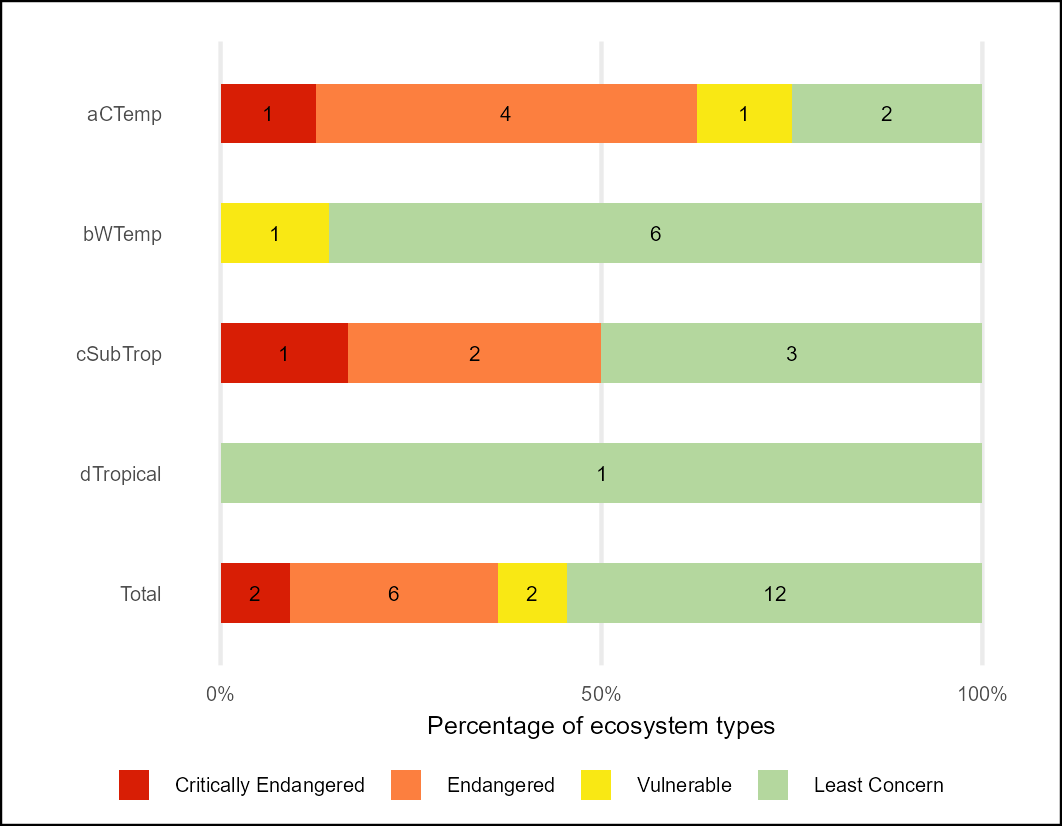
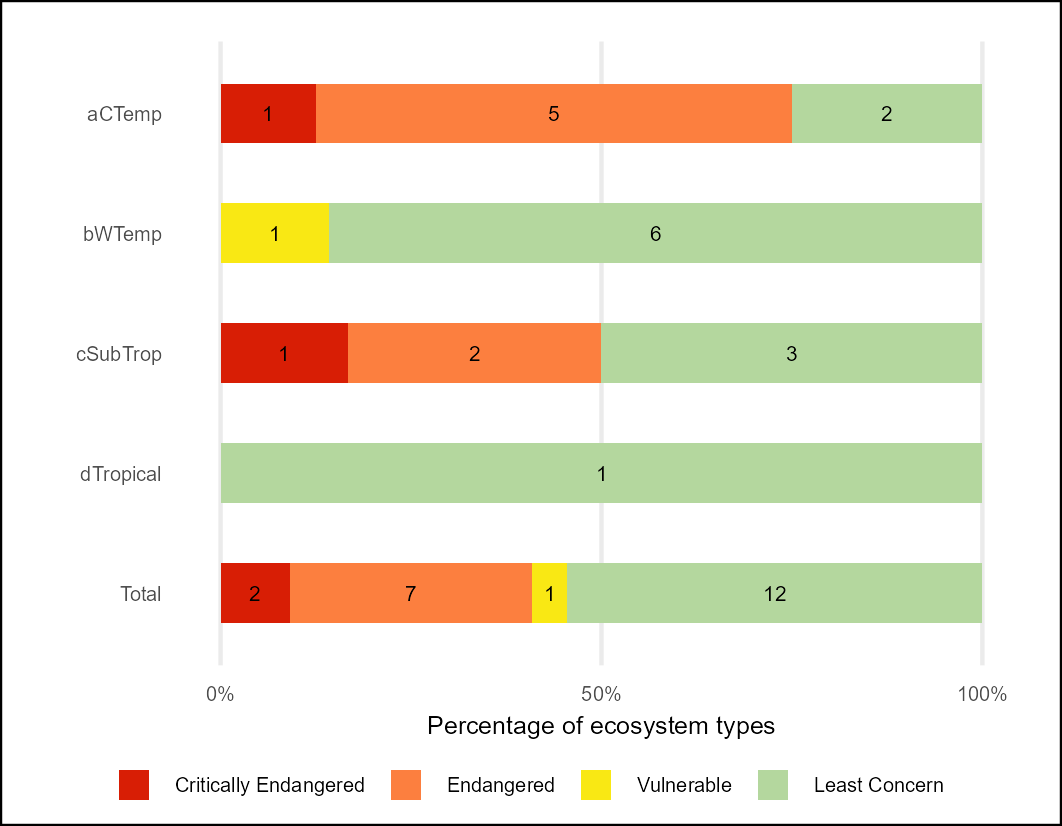
rle assessment

Changed region(s): [[0.6525, 0.0908, 0.7458, 0.1816], [0.4661, 0.6659, 0.5282, 0.7567]]

diff --git a/README.md b/README.md
@@ -10,17 +10,17 @@ July 2025
 
 This repository contains a workflow that results in the NBA 2025 Red List of Ecosystems indicator for Estuarine Ecosystems of South Africa.
 
-The Quarto document [RLE_estuaries.qmd](RLE_estuaries.qmd) describes the import of the South African estuary spatial data and Estuarine Health assessment tables (van Niekerk et al., 20240. The data were analysed using the sf package in R and summarised using the tidyverse.
+The Quarto document [RLE_estuaries.qmd](RLE_estuaries.qmd) describes the import of the South African estuary spatial data and Estuarine Health assessment tables (van Niekerk et al., 2024). The data were analysed using the sf package in R and summarised using the tidyverse.
 
-Estuarine Health Scores are assigned to PES categories A-F and Condition Classes (Natural - Severely modified) according to the table below.
+Estuarine Condition (Health) scores (0-100) are assigned to PES categories (A-F) and NBA Modification categories (Natural - Severely modified) according to the table below.
 
-| Estuarine Health SCORE | Ecological State CLASS | Condition CATEGORY           |
-|------------------------|-------------------|------------------------------|
-| \>= 90                 | A                      | Natural                      |
-| \>=75 & \< 90          | B                      | Near Natural                 |
-| \>= 60 & \< 75         | C                      | Moderately Modified          |
-| \>=40 & \< 60          | D                      | Heavily Modified             |
-| \< 40                  | E/F                    | Severely/Critically Modified |
+| Condition score (0-100) | "PES" category | Modification category        |
+|-------------------------|----------------|------------------------------|
+| \>= 90                  | A              | Natural                      |
+| \>=75 & \< 90           | B              | Near Natural                 |
+| \>= 60 & \< 75          | C              | Moderately Modified          |
+| \>=40 & \< 60           | D              | Heavily Modified             |
+| \< 40                   | E/F            | Severely/Critically Modified |
 
 : The Red List of Ecosystems (also known as Ecosystem Threat Status in South Africa) assesses the risk of collapse of each ecosystem type based on a range of criteria on extent, condition and pressures faced by each ecosystem type.
 
@@ -35,7 +35,9 @@ Summary table - count of estuarine ecosystem types per biogeographic zone per RL
 Summary table - extent of estuarine ecosystem per biogeographic zone per RLE category [rle24_est_sum_ext.csv](outputs/rle24_est_sum_ext.csv)
 
 | RLE - count of types per category | RLE - extent of types per category |
-|----|----|
+|------------------------------------|------------------------------------|
 | ![](outputs/rle24_est_barplot_count.png) | ![](outputs/rle24_est_barplot_ext.png) |
 
-: RLE for Estuaries 2025
+RLE Index
+
+![](outputs/rlie_est_line_plot.png)
